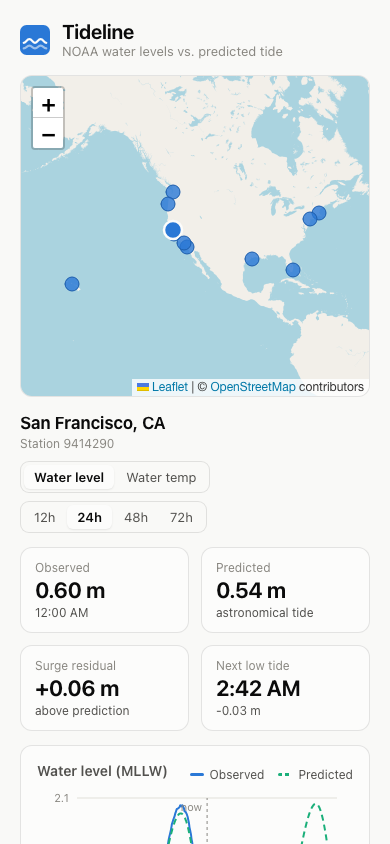
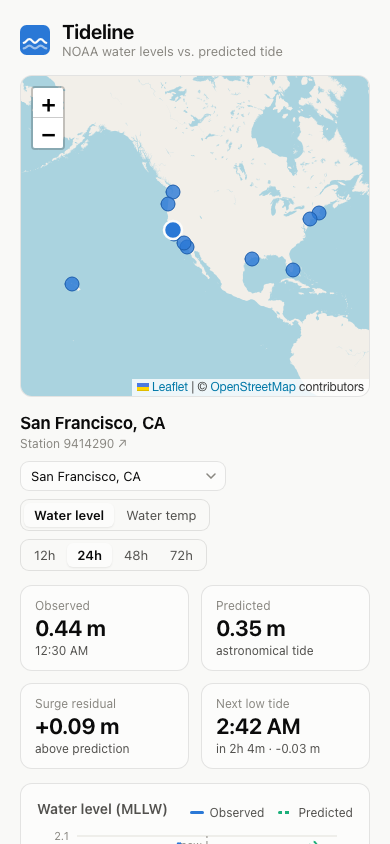
docs: refresh screenshots and document the new features

diff --git a/README.md b/README.md
@@ -17,12 +17,14 @@ Tideline pulls real-time coastal data from the [NOAA CO-OPS API](https://api.tid
 
 ## Features
 
-- **Interactive station map** — 13 NOAA stations across both coasts, Gulf, and Hawaii; click a marker to switch stations
+- **Interactive station map** — 13 NOAA stations across both coasts, Gulf, and Hawaii; click a marker or use the dropdown (the map pans to off-screen picks)
 - **Observed vs. predicted overlay chart** with a "now" marker, so you can see the upcoming tide as well as the last few days
-- **Surge residual** computed live: how far the water is above or below what the tide alone explains
-- **Next high/low tide** derived from the prediction series
-- **Read-through cache with graceful degradation** — repeated requests serve from SQLite; if NOAA is unreachable the API returns the last known data flagged `stale` instead of failing
-- Water temperature as a second data product, responsive layout, automatic dark mode
+- **Surge residual chart** — a diverging mini-chart of observed − predicted with a crosshair synced to the main chart; a rising residual is what a storm looks like
+- **Next high/low tide** with a live countdown, derived from the prediction series
+- **Shareable URLs** — station, product, and time range round-trip through the query string
+- **Read-through cache with graceful degradation** — repeated requests serve from SQLite; if NOAA is unreachable the API returns the last known data flagged `stale`, and the UI offers a retry
+- Stations without a sensor for a product (SF has no thermometer!) get a friendly empty state, not an error
+- Water temperature as a second data product, 5-minute auto-refresh, responsive layout, automatic dark mode
 
 ## Architecture
 
@@ -73,7 +75,7 @@ Series responses include `source` (`noaa` / `cache` / `stale`) and `fetched_at`,
 | Backend | Python 3.12, FastAPI, SQLAlchemy 2.0, httpx, pydantic-settings |
 | Database | SQLite (swap to Postgres by changing `TIDELINE_DATABASE_URL` — no dialect-specific SQL) |
 | Frontend | React 19, TypeScript, Vite, react-leaflet, Recharts |
-| Tests | pytest + respx (NOAA mocked at the HTTP transport layer) |
+| Tests | pytest + respx (NOAA mocked at the HTTP transport layer); Vitest for frontend logic |
 | CI/CD | GitHub Actions → Docker → Render |
 
 ## Running locally
@@ -98,11 +100,11 @@ npm run dev                          # http://localhost:5173, proxies /api to th
 ### Tests
 
 ```bash
-cd backend
-pytest -v
+cd backend && pytest -v      # 18 tests
+cd frontend && npm test      # 19 tests
 ```
 
-The suite covers the full cache lifecycle (cold → warm → expired → stale fallback), the full-window refresh invariant, upsert de-duplication, NOAA response parsing (including sensor gaps), and request validation. NOAA is mocked with `respx`, so tests run offline in ~0.3 s.
+The backend suite covers the full cache lifecycle (cold → warm → expired → stale fallback), the full-window refresh invariant, upsert de-duplication, NOAA response parsing (including sensor gaps and no-sensor stations), gzip, and request validation — NOAA is mocked with `respx`, so tests run offline in ~0.3 s. The frontend suite covers the tide math (series merging, surge residual, next-extreme detection, axis ticks) and URL state round-tripping.
 
 ## Docker
 